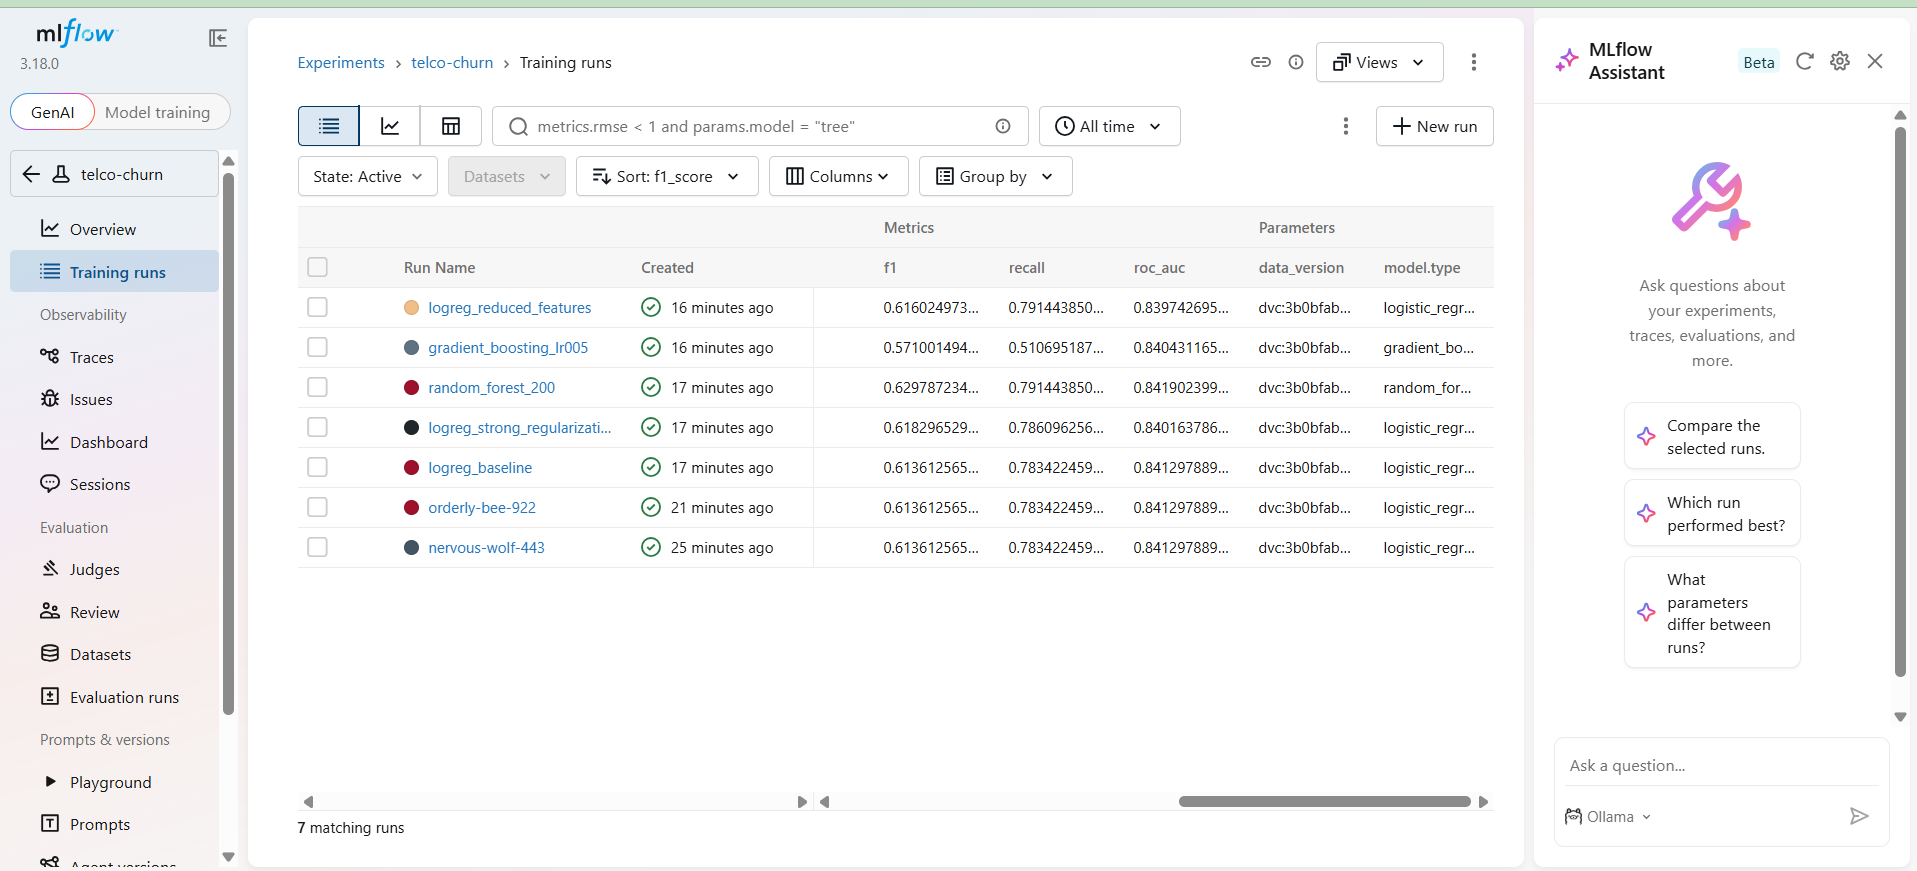
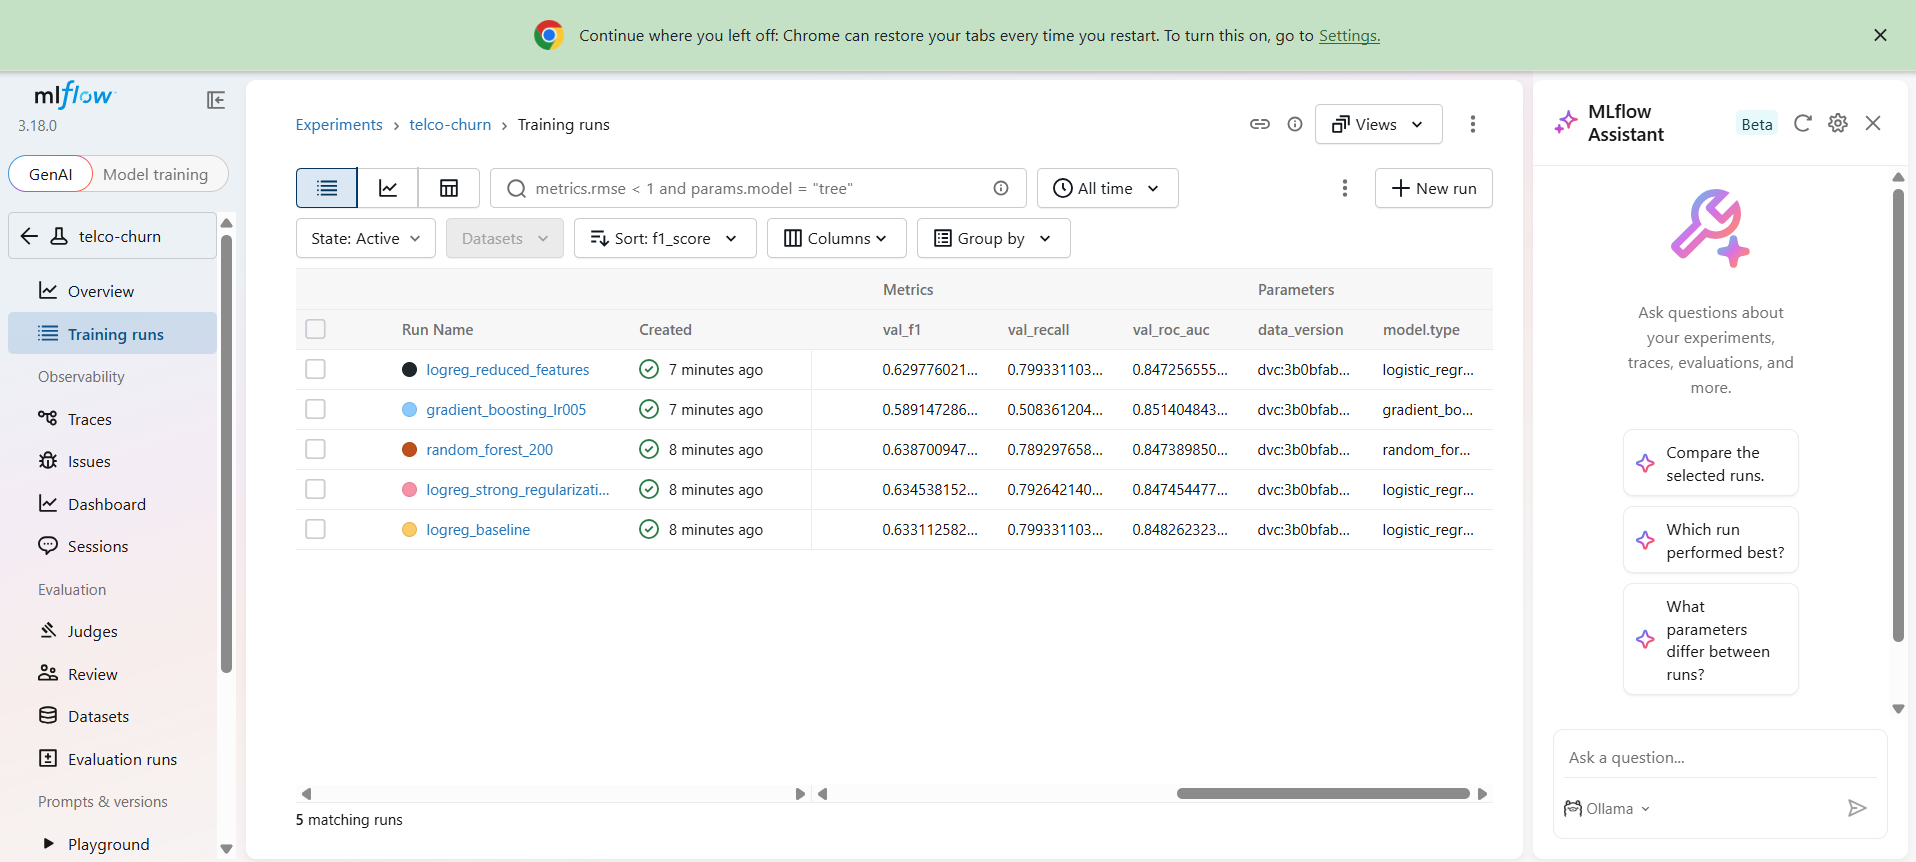
Select model on a validation split; evaluate the selected model once on the held-out test set

diff --git a/src/compare_experiments.py b/src/compare_experiments.py
@@ -1,4 +1,4 @@
-"""Query MLflow with mlflow.search_runs() and identify the best run.
+"""Pick the best run by VALIDATION score, then evaluate it once on the TEST set.
 
 Usage:
     python -m src.compare_experiments
@@ -8,19 +8,40 @@ from __future__ import annotations
 import argparse
 
 import mlflow
+import mlflow.sklearn
 import pandas as pd
 
+from src.data import load_raw_data
+from src.evaluate import compute_metrics
+from src.preprocess import prepare_data
+from src.train import split_data
 from src.utils import load_config
 
 
 def get_runs(config: dict) -> pd.DataFrame:
+    """All runs that have a validation score, best first."""
     mlflow.set_tracking_uri(config["mlflow"]["tracking_uri"])
     primary = config["mlflow"]["primary_metric"]
     return mlflow.search_runs(
         experiment_names=[config["mlflow"]["experiment_name"]],
-        filter_string="attributes.status = 'FINISHED'",
-        order_by=[f"metrics.{primary} DESC"],
+        filter_string=f"attributes.status = 'FINISHED' and metrics.val_{primary} > 0",
+        order_by=[f"metrics.val_{primary} DESC"],
     )
+
+
+def evaluate_on_test(config: dict, run_id: str) -> dict[str, float]:
+    """Score the selected run's model on the held-out test set (used only here)."""
+    X, y = prepare_data(load_raw_data(config), config)
+    _X_train, X_test, _y_train, y_test = split_data(X, y, config)
+    model = mlflow.sklearn.load_model(f"runs:/{run_id}/model")
+    metrics = compute_metrics(y_test, model.predict(
+        X_test), model.predict_proba(X_test)[:, 1])
+
+    # Record the final test metrics on the selected run in MLflow
+    with mlflow.start_run(run_id=run_id):
+        mlflow.log_metrics(
+            {f"test_{name}": value for name, value in metrics.items()})
+    return metrics
 
 
 def main() -> None:
@@ -32,31 +53,38 @@ def main() -> None:
 
     runs = get_runs(config)
     if runs.empty:
-        print("No finished runs found. Run `python -m src.run_experiments` first.")
+        print("No runs found. Run `python -m src.run_experiments` first.")
         return
 
+    # 1. Compare the runs on the VALIDATION set
     cols = {
         "tags.mlflow.runName": "run_name",
         "params.model.type": "model",
-        "metrics.roc_auc": "roc_auc",
-        "metrics.f1": "f1",
-        "metrics.precision": "precision",
-        "metrics.recall": "recall",
-        "metrics.accuracy": "accuracy",
+        "metrics.val_roc_auc": "val_roc_auc",
+        "metrics.val_f1": "val_f1",
+        "metrics.val_precision": "val_precision",
+        "metrics.val_recall": "val_recall",
+        "metrics.val_accuracy": "val_accuracy",
         "params.data_version": "data_version",
     }
     table = runs[[c for c in cols if c in runs.columns]].rename(columns=cols)
     pd.set_option("display.width", 200)
-    print(f"Found {len(table)} runs (sorted by {primary}):\n")
+    print(f"Found {len(table)} runs (sorted by validation {primary}):\n")
     print(table.round(4).to_string(index=False))
 
     best = runs.iloc[0]
-    print(f"\nBest run by {primary}:")
+    print(f"\nBest run by validation {primary}:")
     print(f"  run_id   : {best['run_id']}")
     print(f"  run_name : {best.get('tags.mlflow.runName')}")
     print(f"  model    : {best.get('params.model.type')}")
-    print(f"  {primary:<9}: {best[f'metrics.{primary}']:.4f}")
+    print(f"  val_{primary:<5}: {best[f'metrics.val_{primary}']:.4f}")
     print(f"  model URI: runs:/{best['run_id']}/model")
+
+    # 2. Evaluate ONLY the selected model on the untouched TEST set
+    test_metrics = evaluate_on_test(config, best["run_id"])
+    print("\nFinal performance of the selected model on the TEST set:")
+    for name, value in test_metrics.items():
+        print(f"  {name:<10} {value:.4f}")
 
 
 if __name__ == "__main__":

diff --git a/src/train.py b/src/train.py
@@ -61,6 +61,19 @@ def split_data(X, y, config: dict):
     )
 
 
+def split_train_val(X_train, y_train, config: dict):
+    """Split the training data again: part for fitting, part for validation.
+
+    Model selection uses the validation set, so the test set stays untouched.
+    """
+    return train_test_split(
+        X_train, y_train,
+        test_size=config["data"]["val_size"],
+        random_state=config["project"]["random_state"],
+        stratify=y_train,
+    )
+
+
 def flatten_params(config: dict) -> dict:
     """Flatten the config sections we want logged as MLflow params."""
     params = {"model.type": config["model"]["type"]}
@@ -69,6 +82,7 @@ def flatten_params(config: dict) -> dict:
     for k, v in config["preprocessing"].items():
         params[f"preprocessing.{k}"] = v
     params["data.test_size"] = config["data"]["test_size"]
+    params["data.val_size"] = config["data"]["val_size"]
     params["random_state"] = config["project"]["random_state"]
     params["n_numeric_features"] = len(config["features"]["numeric"])
     params["n_categorical_features"] = len(config["features"]["categorical"])
@@ -79,7 +93,10 @@ def run_training(config: dict, run_name: str | None = None) -> tuple[dict, list[
     """Train, evaluate, and log one run. Returns (metrics, threshold_failures)."""
     df = load_raw_data(config)
     X, y = prepare_data(df, config)
-    X_train, X_test, y_train, y_test = split_data(X, y, config)
+    X_train_full, _X_test, y_train_full, _y_test = split_data(
+        X, y, config)  # test set held out
+    X_train, X_val, y_train, y_val = split_train_val(
+        X_train_full, y_train_full, config)
 
     mlflow.set_tracking_uri(config["mlflow"]["tracking_uri"])
     mlflow.set_experiment(config["mlflow"]["experiment_name"])
@@ -97,10 +114,11 @@ def run_training(config: dict, run_name: str | None = None) -> tuple[dict, list[
         model.fit(X_train, y_train)
 
         # 3. Evaluate
-        y_pred = model.predict(X_test)
-        y_proba = model.predict_proba(X_test)[:, 1]
-        metrics = compute_metrics(y_test, y_pred, y_proba)
-        mlflow.log_metrics(metrics)
+        y_pred = model.predict(X_val)
+        y_proba = model.predict_proba(X_val)[:, 1]
+        metrics = compute_metrics(y_val, y_pred, y_proba)
+        mlflow.log_metrics(
+            {f"val_{name}": value for name, value in metrics.items()})
 
         failures = check_thresholds(metrics, config["thresholds"])
         mlflow.set_tag("thresholds_passed", str(not failures))

diff --git a/README.md b/README.md
@@ -91,39 +91,47 @@ python -m src.data --download
 python -m src.train --config configs/config.yaml
 ```
 
-The script reads every setting from `configs/config.yaml`. Each run logs to MLflow:
+The script reads every setting from `configs/config.yaml`. It splits the data three ways (train / validation / test), trains on the **train** split, and scores the model on the **validation** split. **The test split is never used during training or model selection.** Each run logs to MLflow:
 - all hyperparameters and preprocessing settings
 - the data version (the DVC md5 hash, e.g. `dvc:3b0bfab2...`)
-- five metrics: ROC-AUC (primary), F1, precision, recall, accuracy
+- five validation metrics: `val_roc_auc` (primary), `val_f1`, `val_precision`, `val_recall`, `val_accuracy`
 - the full preprocessing + model pipeline via `mlflow.sklearn.log_model()`
 
-**It exits with code 1 if any threshold in `config.yaml → thresholds` is not met** (ROC-AUC ≥ 0.80, F1 ≥ 0.55, recall ≥ 0.50). CI uses this exit code as a quality gate.
+**It exits with code 1 if any validation metric misses its threshold in `config.yaml → thresholds`** (ROC-AUC ≥ 0.80, F1 ≥ 0.55, recall ≥ 0.50). CI uses this exit code as a quality gate.
 
 > **Note (MLflow 3):** logged models appear under the experiment's **Models** tab (and the run's *Logged models* section) rather than the run's Artifacts tab. They can still be loaded with `mlflow.sklearn.load_model("runs:/<run_id>/model")`.
 
 ## Experiments
 
 ```bash
-python -m src.run_experiments        # runs the 5 configurations in configs/experiments.yaml
-python -m src.compare_experiments    # queries MLflow with search_runs(), prints the best run
+python -m src.run_experiments        # trains the 5 configurations in configs/experiments.yaml and scores them on the validation set
+python -m src.compare_experiments    # selects the best run by validation ROC-AUC, then evaluates it on the test set
 mlflow ui --backend-store-uri sqlite:///mlflow.db   # http://127.0.0.1:5000 ("Model training" view)
 ```
 
-| Run | What varies | ROC-AUC | F1 | Recall |
-|---|---|---|---|---|
-| random_forest_200 | Model type | **0.8419** | 0.6298 | 0.7914 |
-| logreg_baseline | Baseline | 0.8413 | 0.6136 | 0.7834 |
-| gradient_boosting_lr005 | Model type | 0.8404 | 0.5710 | 0.5107 |
-| logreg_strong_regularization | Hyperparameter (C = 0.05) | 0.8402 | 0.6183 | 0.7861 |
-| logreg_reduced_features | Feature set (9 of 15 categorical) | 0.8397 | 0.6160 | 0.7914 |
+**Model selection on the validation set.** The data is split three ways: 64% train (4,507 rows), 16% validation (1,127), and 20% test (1,409). Each configuration is trained on the train set and scored on the validation set:
 
-**Best run:** `random_forest_200` (ROC-AUC 0.8419). All five configurations land within 0.0022 ROC-AUC of each other, so model choice matters little on this dataset. Dropping six add-on service columns (`logreg_reduced_features`) cost only 0.0016 ROC-AUC against the baseline, which suggests most of the signal sits in the remaining features. Gradient boosting has much lower recall because sklearn's `GradientBoostingClassifier` has no `class_weight` option, so it under-predicts the minority (churn) class at the default 0.5 threshold.
+| Run | What varies | Val ROC-AUC | Val F1 | Val Recall |
+|---|---|---|---|---|
+| gradient_boosting_lr005 | Model type | **0.8514** | 0.5891 | 0.5084 |
+| logreg_baseline | Baseline | 0.8483 | 0.6331 | 0.7993 |
+| logreg_strong_regularization | Hyperparameter (C = 0.05) | 0.8475 | 0.6345 | 0.7926 |
+| random_forest_200 | Model type | 0.8474 | 0.6387 | 0.7893 |
+| logreg_reduced_features | Feature set (9 of 15 categorical) | 0.8473 | 0.6298 | 0.7993 |
+
+**Final evaluation.** The selected model (`gradient_boosting_lr005`) is evaluated once on the held-out test set, which was not used for training or selection:
+
+| ROC-AUC | F1 | Precision | Recall | Accuracy |
+|---|---|---|---|---|
+| 0.8401 | 0.5688 | 0.6643 | 0.4973 | 0.7999 |
+
+The test ROC-AUC (0.8401) is below the validation score (0.8514). That's expected: a model chosen *because* it scored highest on validation tends to have an optimistic validation score, so the test score is the reliable estimate. Gradient boosting ranks churn risk best, but its test recall (0.4973) is just below the 0.50 threshold, because sklearn's `GradientBoostingClassifier` has no `class_weight` option and flags fewer churners at the default 0.5 decision threshold. The five configurations fall within 0.0041 validation ROC-AUC of each other, so model choice matters little on this dataset.
 
 **MLflow tracking UI** — all runs are logged to the `telco-churn` MLflow experiment:
 
-![MLflow runs table for the telco-churn experiment, showing the five named experiment runs with their metrics](docs/mlflow_runs.png)
+![MLflow runs table for the telco-churn experiment, showing the five experiment runs with their validation metrics](docs/mlflow_runs.png)
 
-The table shows the five configurations from `configs/experiments.yaml` (plus two single `train.py` runs), each with its logged metrics. `random_forest_200` has the highest ROC-AUC (0.8419), matching the result from `compare_experiments.py`.
+The table shows the five configurations from `configs/experiments.yaml`, each with its validation metrics. `gradient_boosting_lr005` has the highest validation ROC-AUC (0.8514) and is the only run with test metrics, because the test set is used once, for the selected model.
 ## Tests
 
 ```bash
